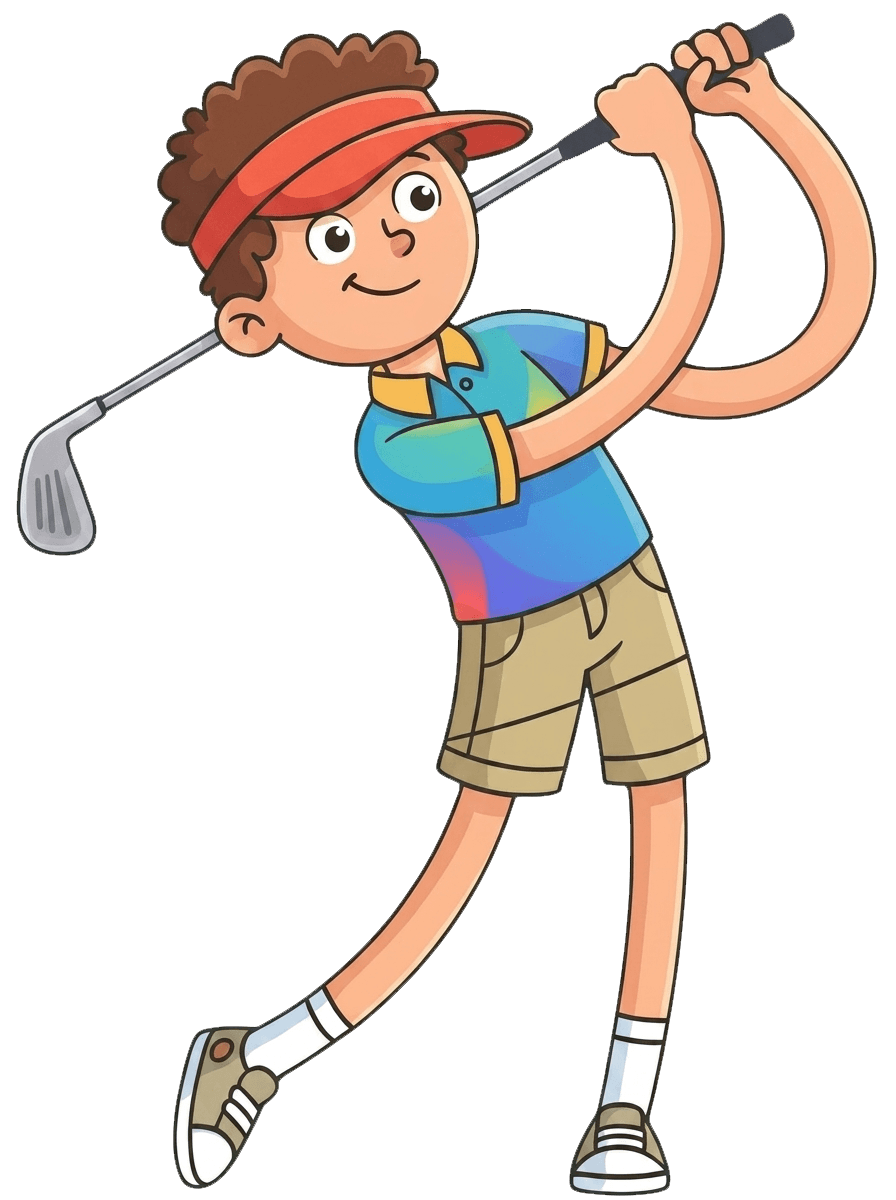
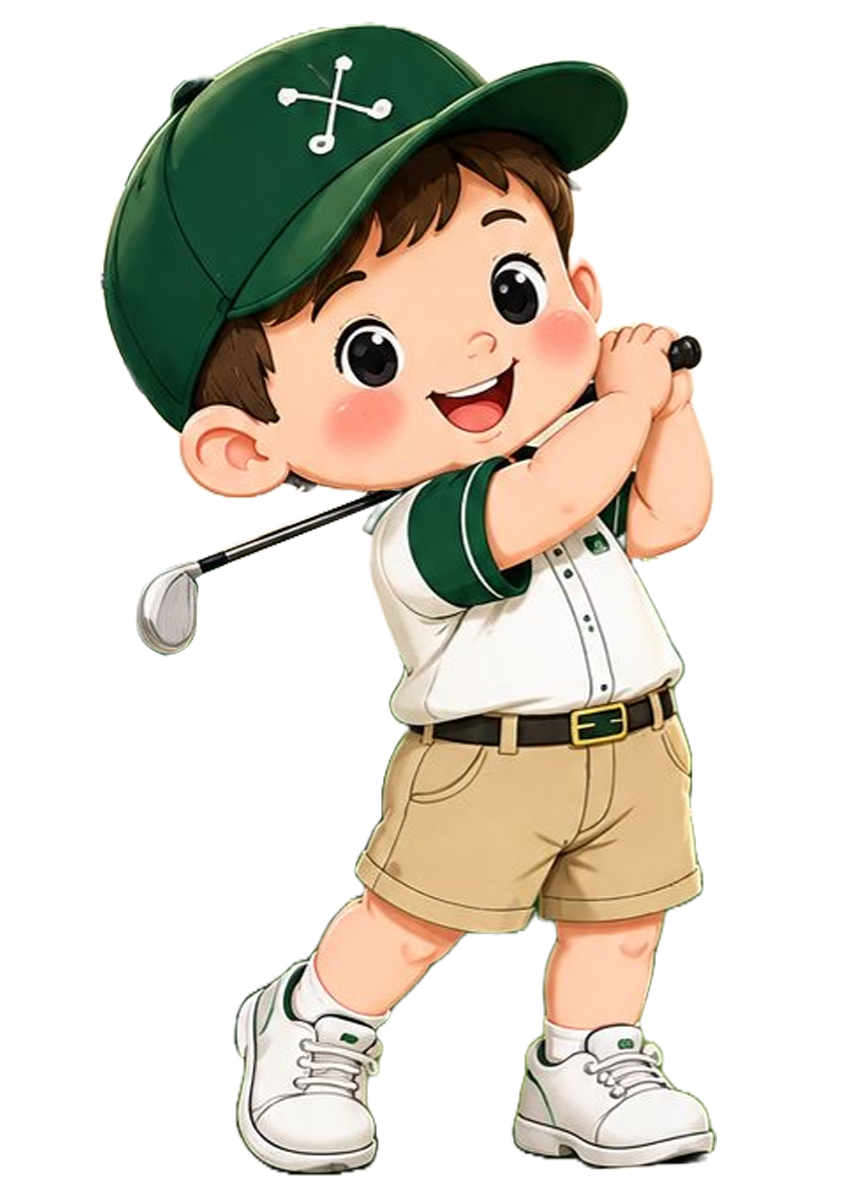
changed color pallete and main character
-changed color pallete and main character

diff --git a/css/layout/main-styles.css b/css/layout/main-styles.css
@@ -17,7 +17,6 @@ h2 span {
 
 /* Banner */
 .bdaybanner {
-    background-color: #69b256;
     background-image: url(../../images/banner-bg.jpg);
     background-size: 190%;
     background-position: center top;
@@ -32,6 +31,7 @@ h2 span {
     display: block;
     position: relative;
     z-index: 1;
+    opacity: 1 !important;
 }
 
 
@@ -89,7 +89,6 @@ h2 span {
 
 .bdaydetails {
     background-position: center;
-    background-color: #69b256;
     background-size: 120%;
     color: #333;
     margin-top: -100px;
@@ -102,7 +101,7 @@ h2 span {
     text-align: left;
 }
 .bdaydetails > div {
-    background-color: #7cd4f8;
+    background-color: #f1ddb8;
     padding: 10px;
     margin: 10px 0;
     border: 1px dashed white;
@@ -114,6 +113,9 @@ h2 span {
     flex-wrap: wrap;
     border-radius: 15px;
 }
+.bdaydetails > div .btn-primary {
+
+} 
 
 .map-container {
     position: relative;

diff --git a/css/layout/common.css b/css/layout/common.css
@@ -19,5 +19,5 @@ html {
 body {
     font-family: var(--body-font-family);
     color: var(--main-font-color);
-    background-color: #69b256;
+    background-color: #1e4423;
 }
